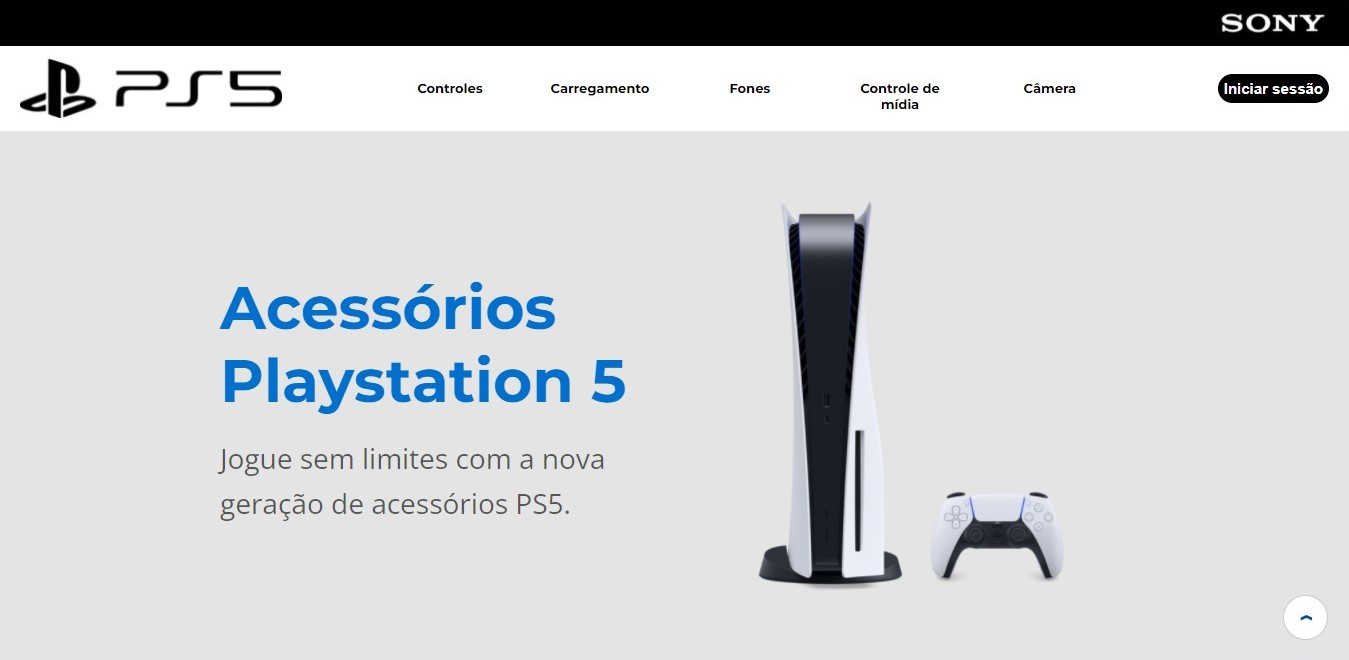
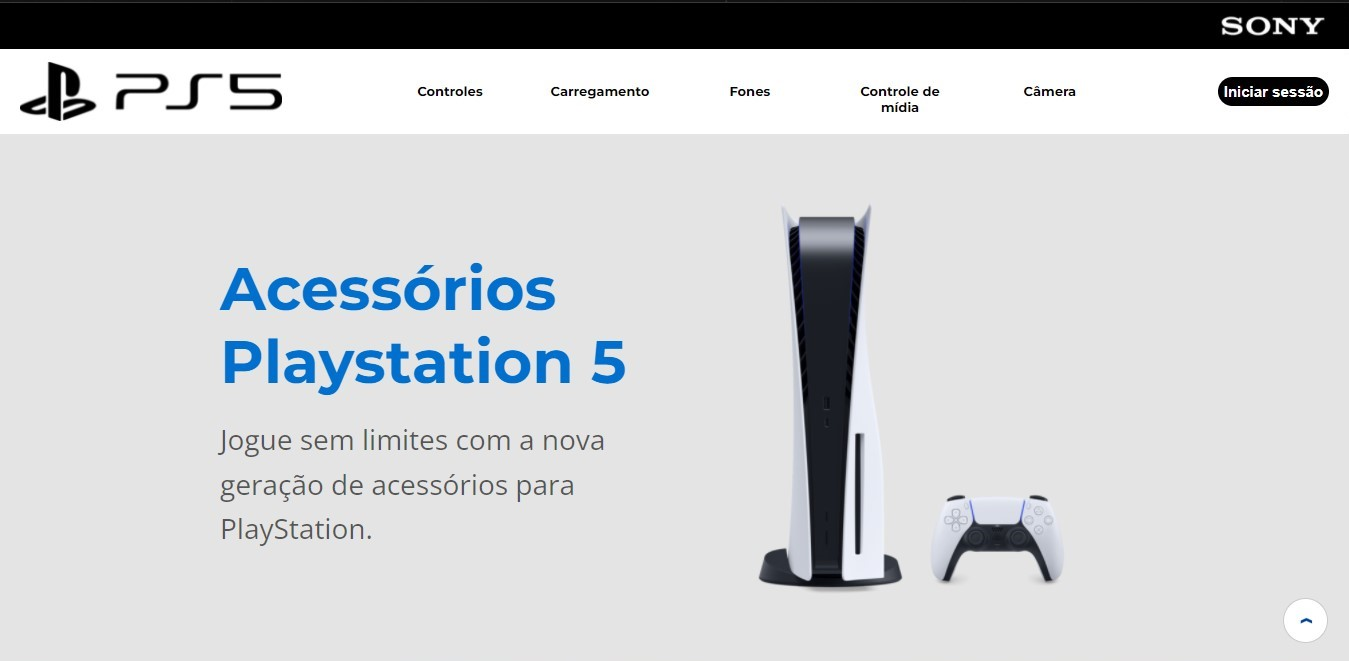
ajuste no texto do paragráfo

diff --git a/index.html b/index.html
@@ -49,7 +49,7 @@
     <section id="intro" class="bg-gray">
         <div id="intro-content">
             <h2>Acessórios Playstation 5</h2><br>
-            <p>Jogue sem limites com a nova geração de acessórios PS5.</p>
+            <p>Jogue sem limites com a nova geração de acessórios para PlayStation.</p>
         </div>
         <div id="intro-img">
             <img src="assets/img/playstation_5.png">
